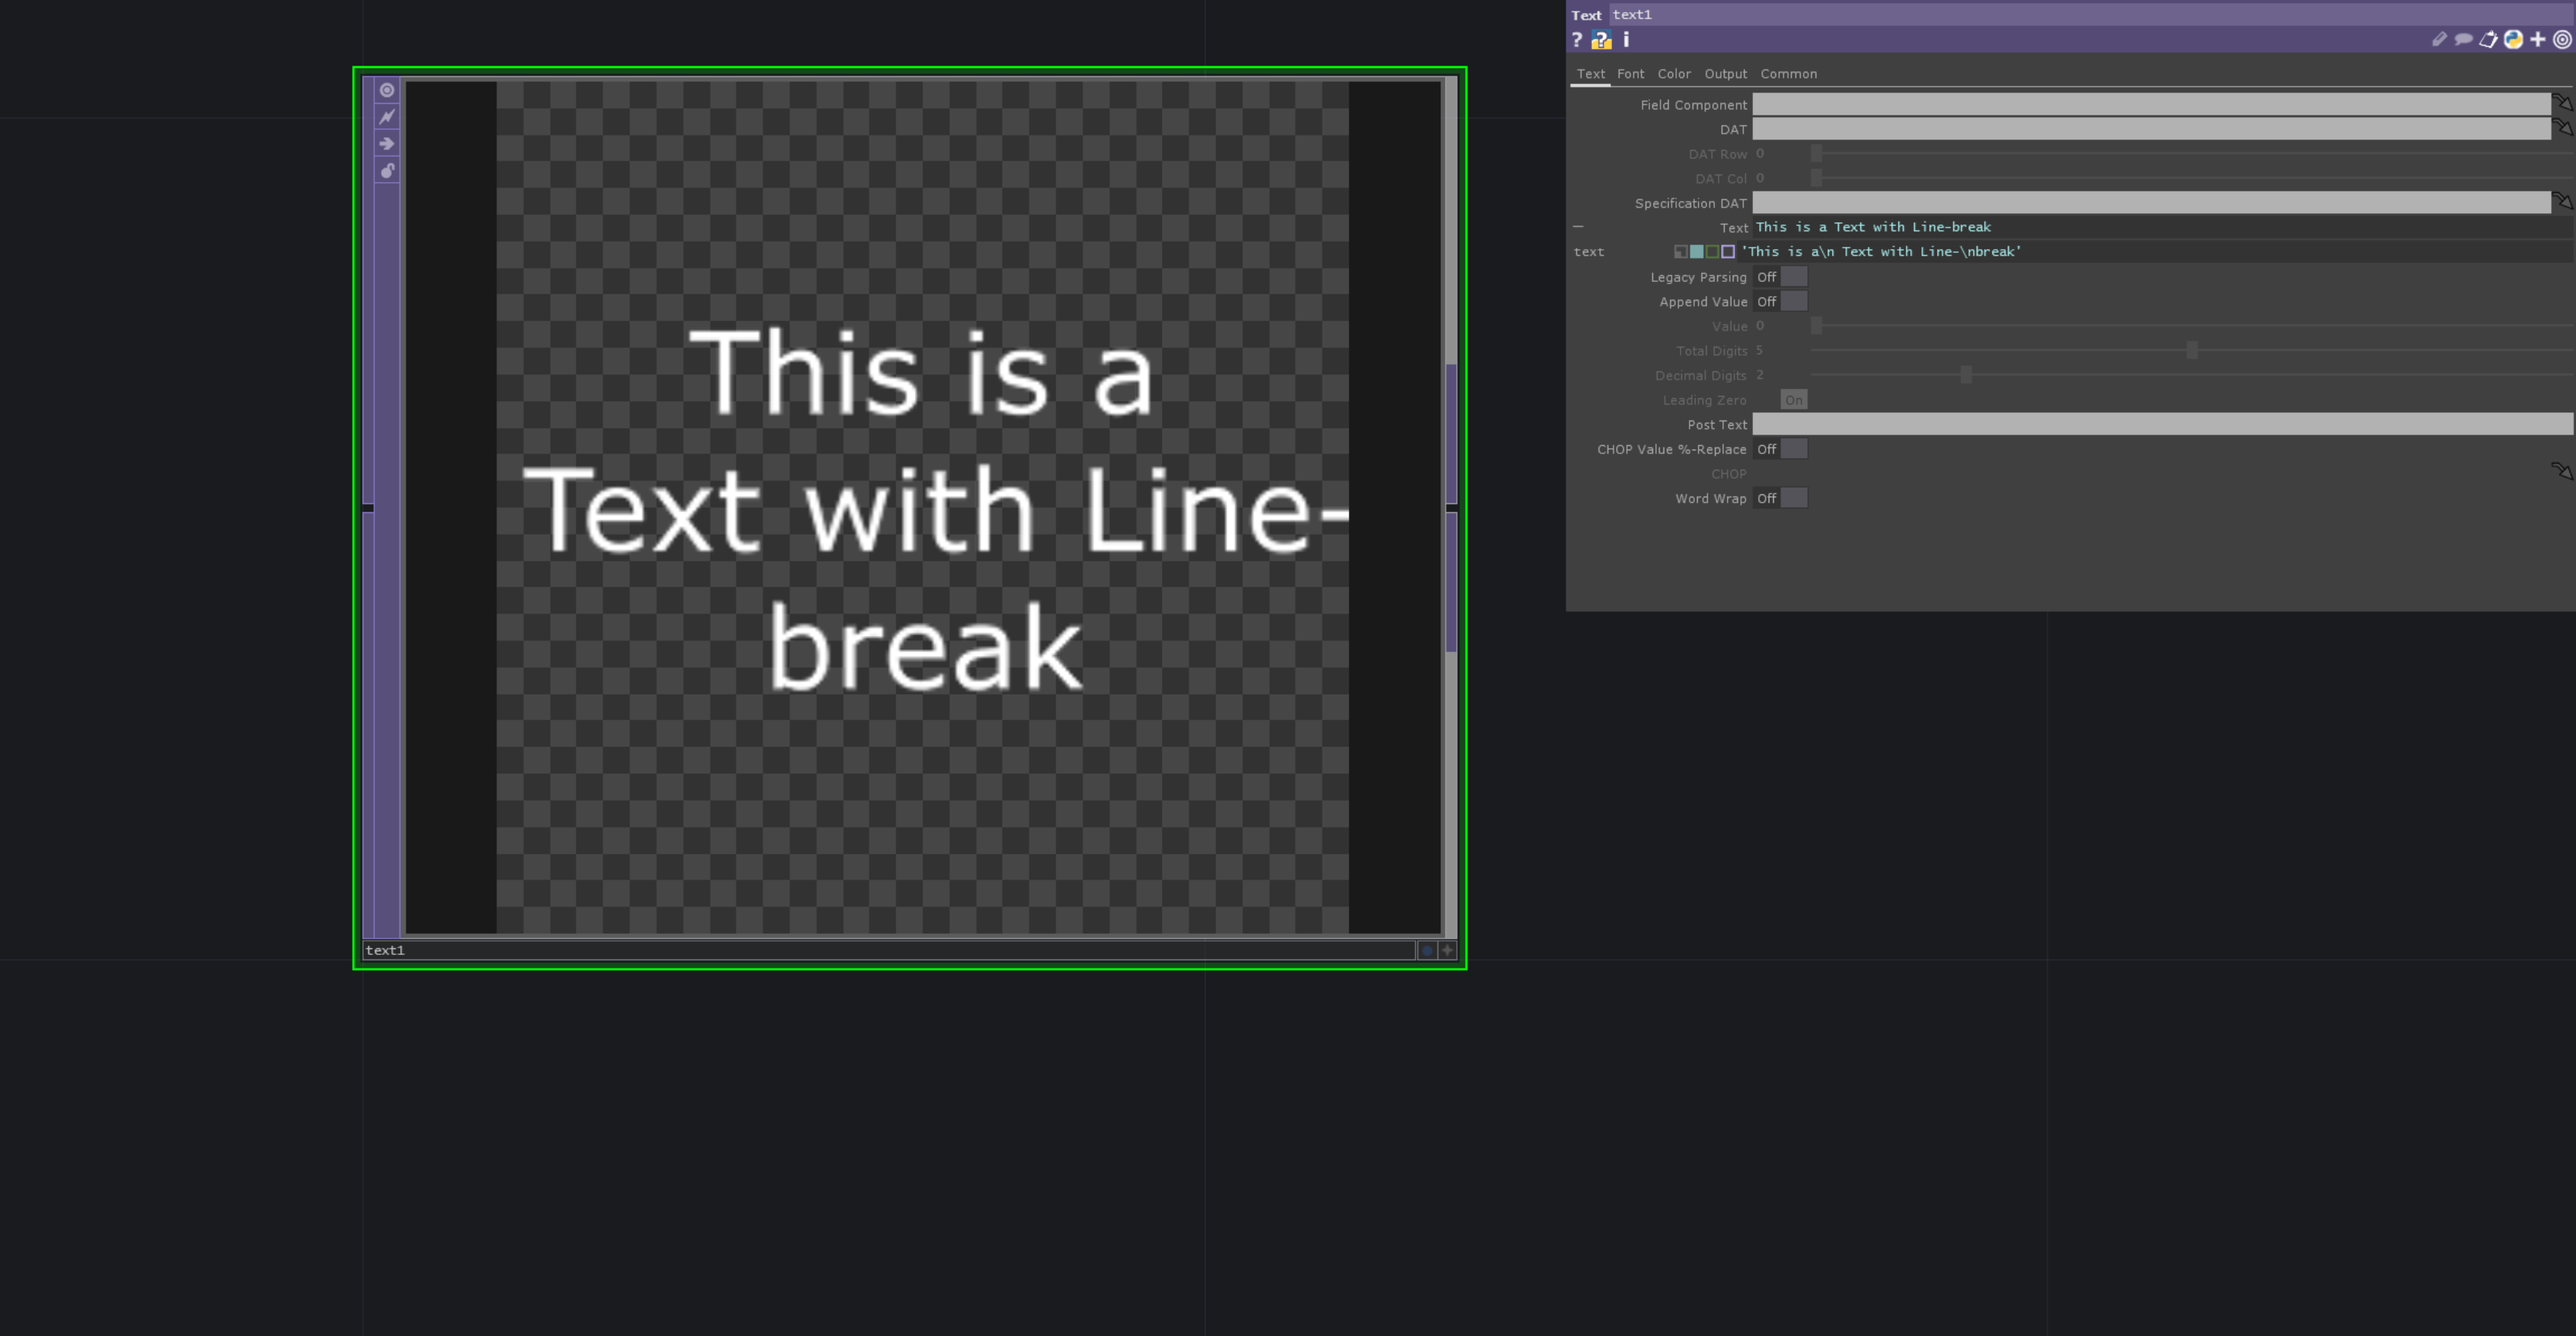
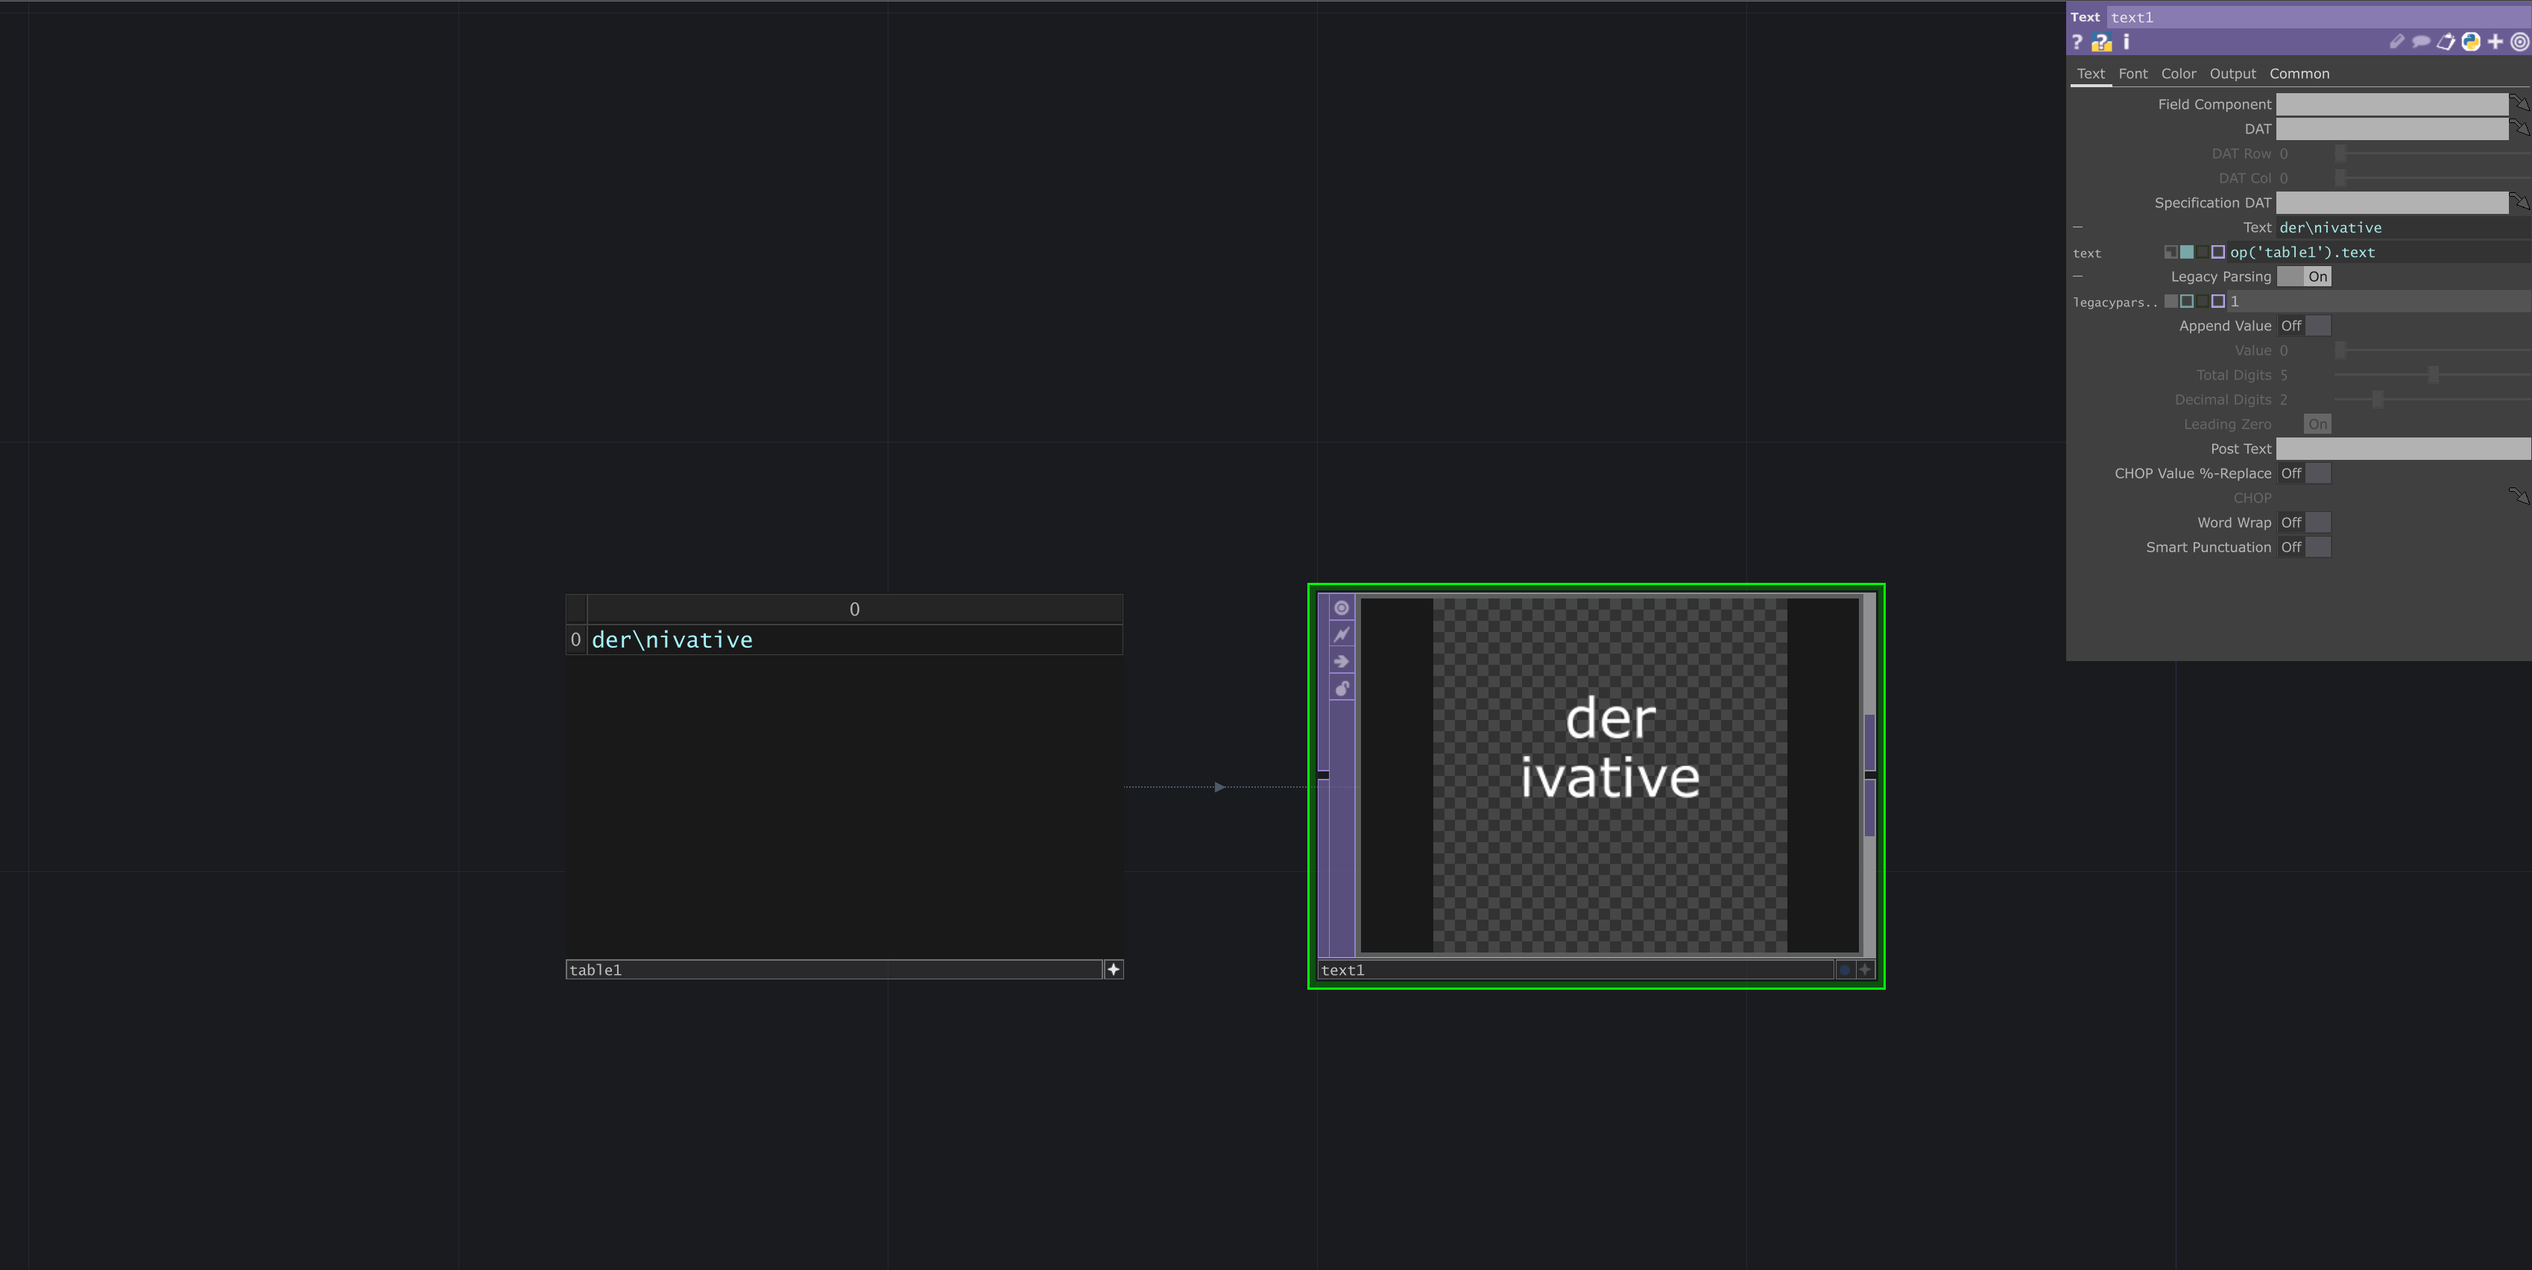
new shader

diff --git a/src/content/blog/GLSL/26_02_27.md b/src/content/blog/GLSL/26_02_27.md
@@ -1,0 +1,43 @@
+
+# 26-02-27
+I experimented today with smooth boolean operations to create almost a metaball, lavalamp style.
+
+```glsl
+uniform vec2 u_resolution;
+uniform vec2 u_mouse;
+uniform float u_time;
+
+float smoothMin(float a, float b, float k){
+    float h = max(k-abs(a-b),0.0)/k;
+    return min(a,b)-h*h*k*0.25;
+    
+    
+}
+
+float circleSDF(vec2 p, vec2 center,float radius){
+    vec2 uv = p-center;
+    return length(uv)-radius;
+    
+}
+
+void main() {
+    vec2 uv = gl_FragCoord.xy/u_resolution.xy;
+    uv.x *= u_resolution.x/u_resolution.y;
+
+    vec3 color = vec3(0.);
+    
+    float s1 = circleSDF(uv,vec2(0.5+0.3*sin(u_time+0.494)*cos(5000.+u_time*0.02),0.5+0.3*cos(-u_time)),0.3+sin(u_time)*0.1);
+    float s2 = circleSDF(uv,vec2(0.5+0.3*cos(5000.+u_time+0.494)*sin(5.+u_time*0.02),0.5+0.3*-cos(-u_time)),0.3+sin(500.+u_time)*0.1);
+    float sf = smoothstep(-0.232,0.1,smoothMin(s1,s2,0.3+cos(u_time)*.2));
+    float sf2 = smoothstep(-0.3+sin(u_time)*0.15,1.340,smoothMin(s1,s2,0.300));
+    vec3 c1 = vec3(0.5+sin(u_time*0.2),0.960,0.5+sin(500.+u_time*0.2));
+    vec3 c2 = vec3(0.000,0.075,0.375);
+    vec3 c3 = vec3(0.980,0.059,0.059);
+    vec3 c4 = vec3(0.920,0.016,0.794);
+    vec3 r = mix(c1,c2,sf);
+    vec3 r2 = mix(c3,c4,sf2);
+  	color = vec3(r.r,r2.g,mix(r.b,cos(u_time)*r2.b,sin(u_time)));
+
+    gl_FragColor = vec4(color,1.0);
+}
+```

diff --git a/src/content/knowledge-base/TD/TECHNIQUES/Pixel-Color-As-Trigger.md b/src/content/knowledge-base/TD/TECHNIQUES/Pixel-Color-As-Trigger.md
@@ -5,4 +5,4 @@ tags:
 ---
 ![Change Seed With Clock](/img/TD/Pixel-Color-AsTrigger.png)
 # Pixel Color As Trigger
-Sometimes when your performance is not consistent and your patch experiences some frame drops you can loose CHOPs trigger events due to the frame drops. Especially when you send information between two instances of TouchDesigner via for example `TouchIn/Out`. A different way to create triggers is to use a top and switch it from black to white and from white to black to use these as triggers. You then can convert the pixel color back to chop information.
+Sometimes when your performance is not consistent and your patch experiences some frame drops you can loose CHOPs trigger events due to the frame drops. Especially when you send information between two instances of TouchDesigner via for example `TouchIn/Out` or Spout. A different way to create triggers is to use a top and switch it from black to white and from white to black to use these as triggers. You then can convert the pixel color back to chop information.

diff --git a/src/content/articles/TD/POP-Basics.md b/src/content/articles/TD/POP-Basics.md
@@ -252,7 +252,7 @@ The `GroupPOP` allows to create groups for points or primitives. You can group b
 Another way to create a group by selection the points with thinning out. You can enable it on the `Thin` tab and select the thin steps.
 
 ## LimitPOP
-The `LimitPOP` allows you to limit the amounts of points. You also can set upper or lower range for your attribute data.
+The `LimitPOP` allows you to limit the amounts of points. You also can set upper or lower range for your attribute data like how far your points can move or how big the point scale can get.
 
 ### LineDividePOP
 The `LineDividePOP` allows to define how to subdivide your line data. We also can set the interpolation between the points of the line.

diff --git a/src/content/knowledge-base/TD/TOP/Line-Break-Text-In-TextTOP.md b/src/content/knowledge-base/TD/TOP/Line-Break-Text-In-TextTOP.md
@@ -10,6 +10,6 @@ tags:
 ---
 ![Line Break Text in TextTOP](/img/TD/LineBreakInTextTop.png)
 # Line Break Text in TextTOP
-When we want to decide where the text in a `TextTOP` breaks we can use the line break signifier `\n` inside the string. We need to set the text into an expression with ' surrounding it.
+When we want to decide where the text in a `TextTOP` breaks we can use the line break signifier `\n` inside the string. We need to set the text into an expression with ' surrounding it and also activate `Legacy Parsing`
 
 
